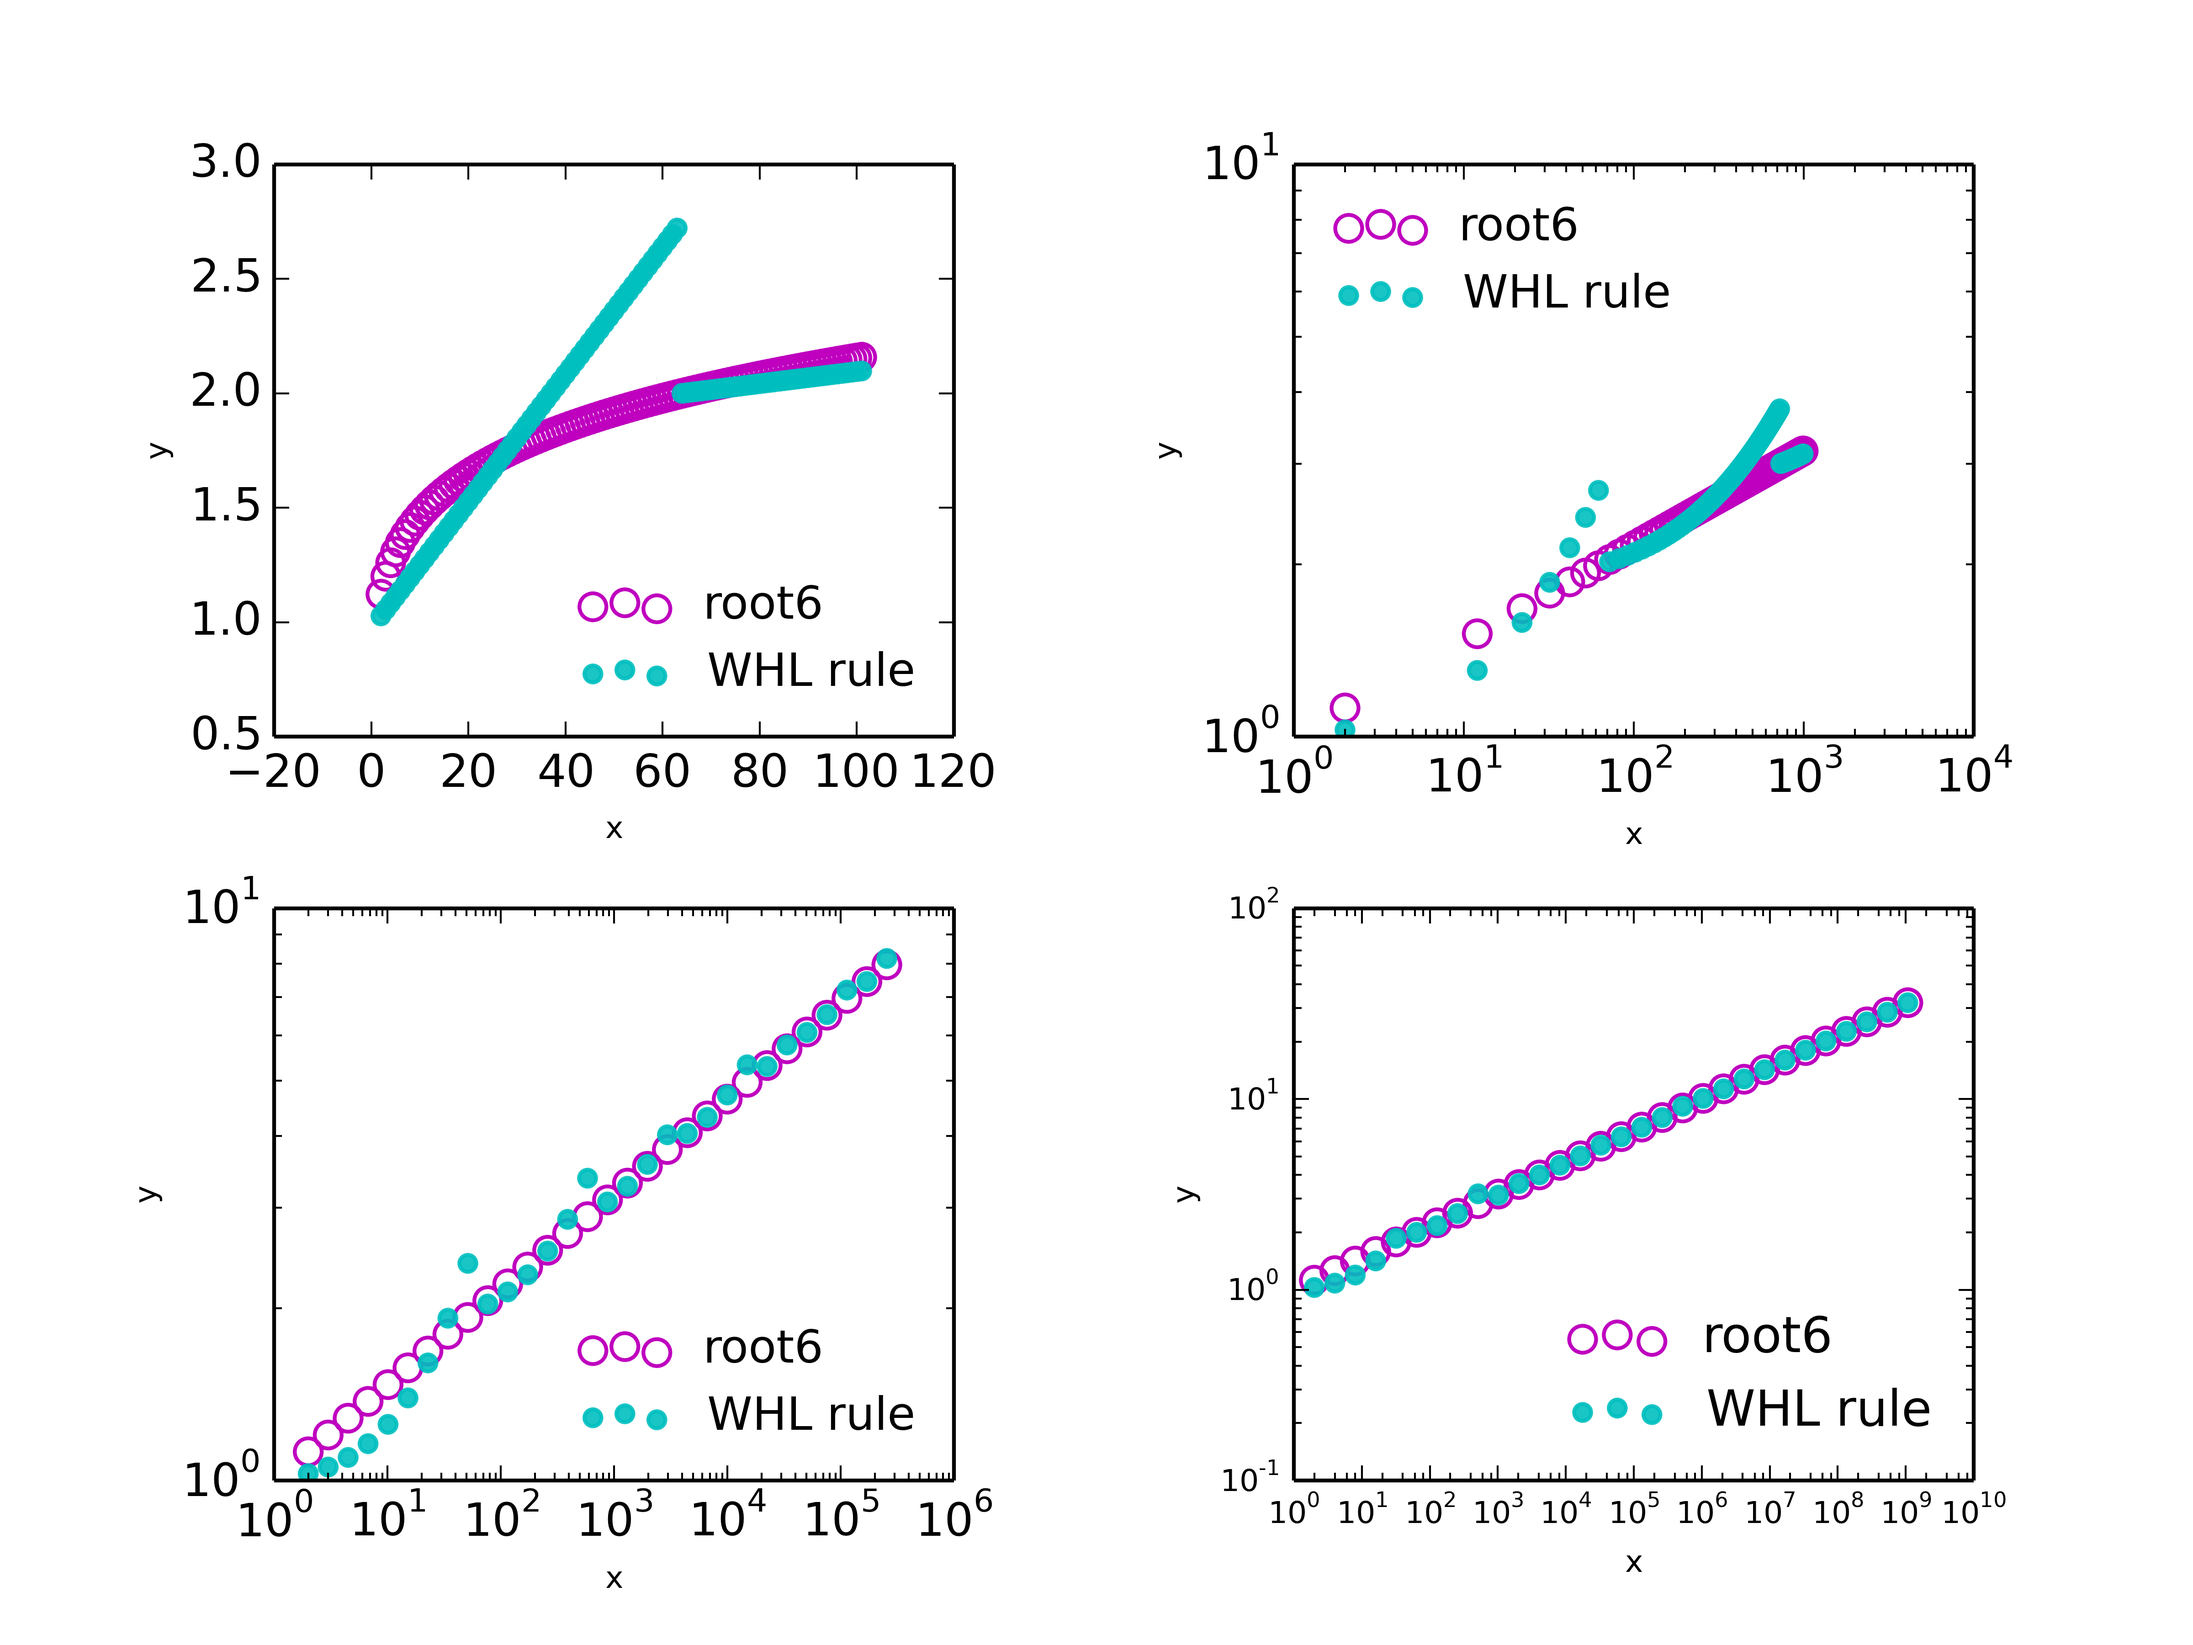
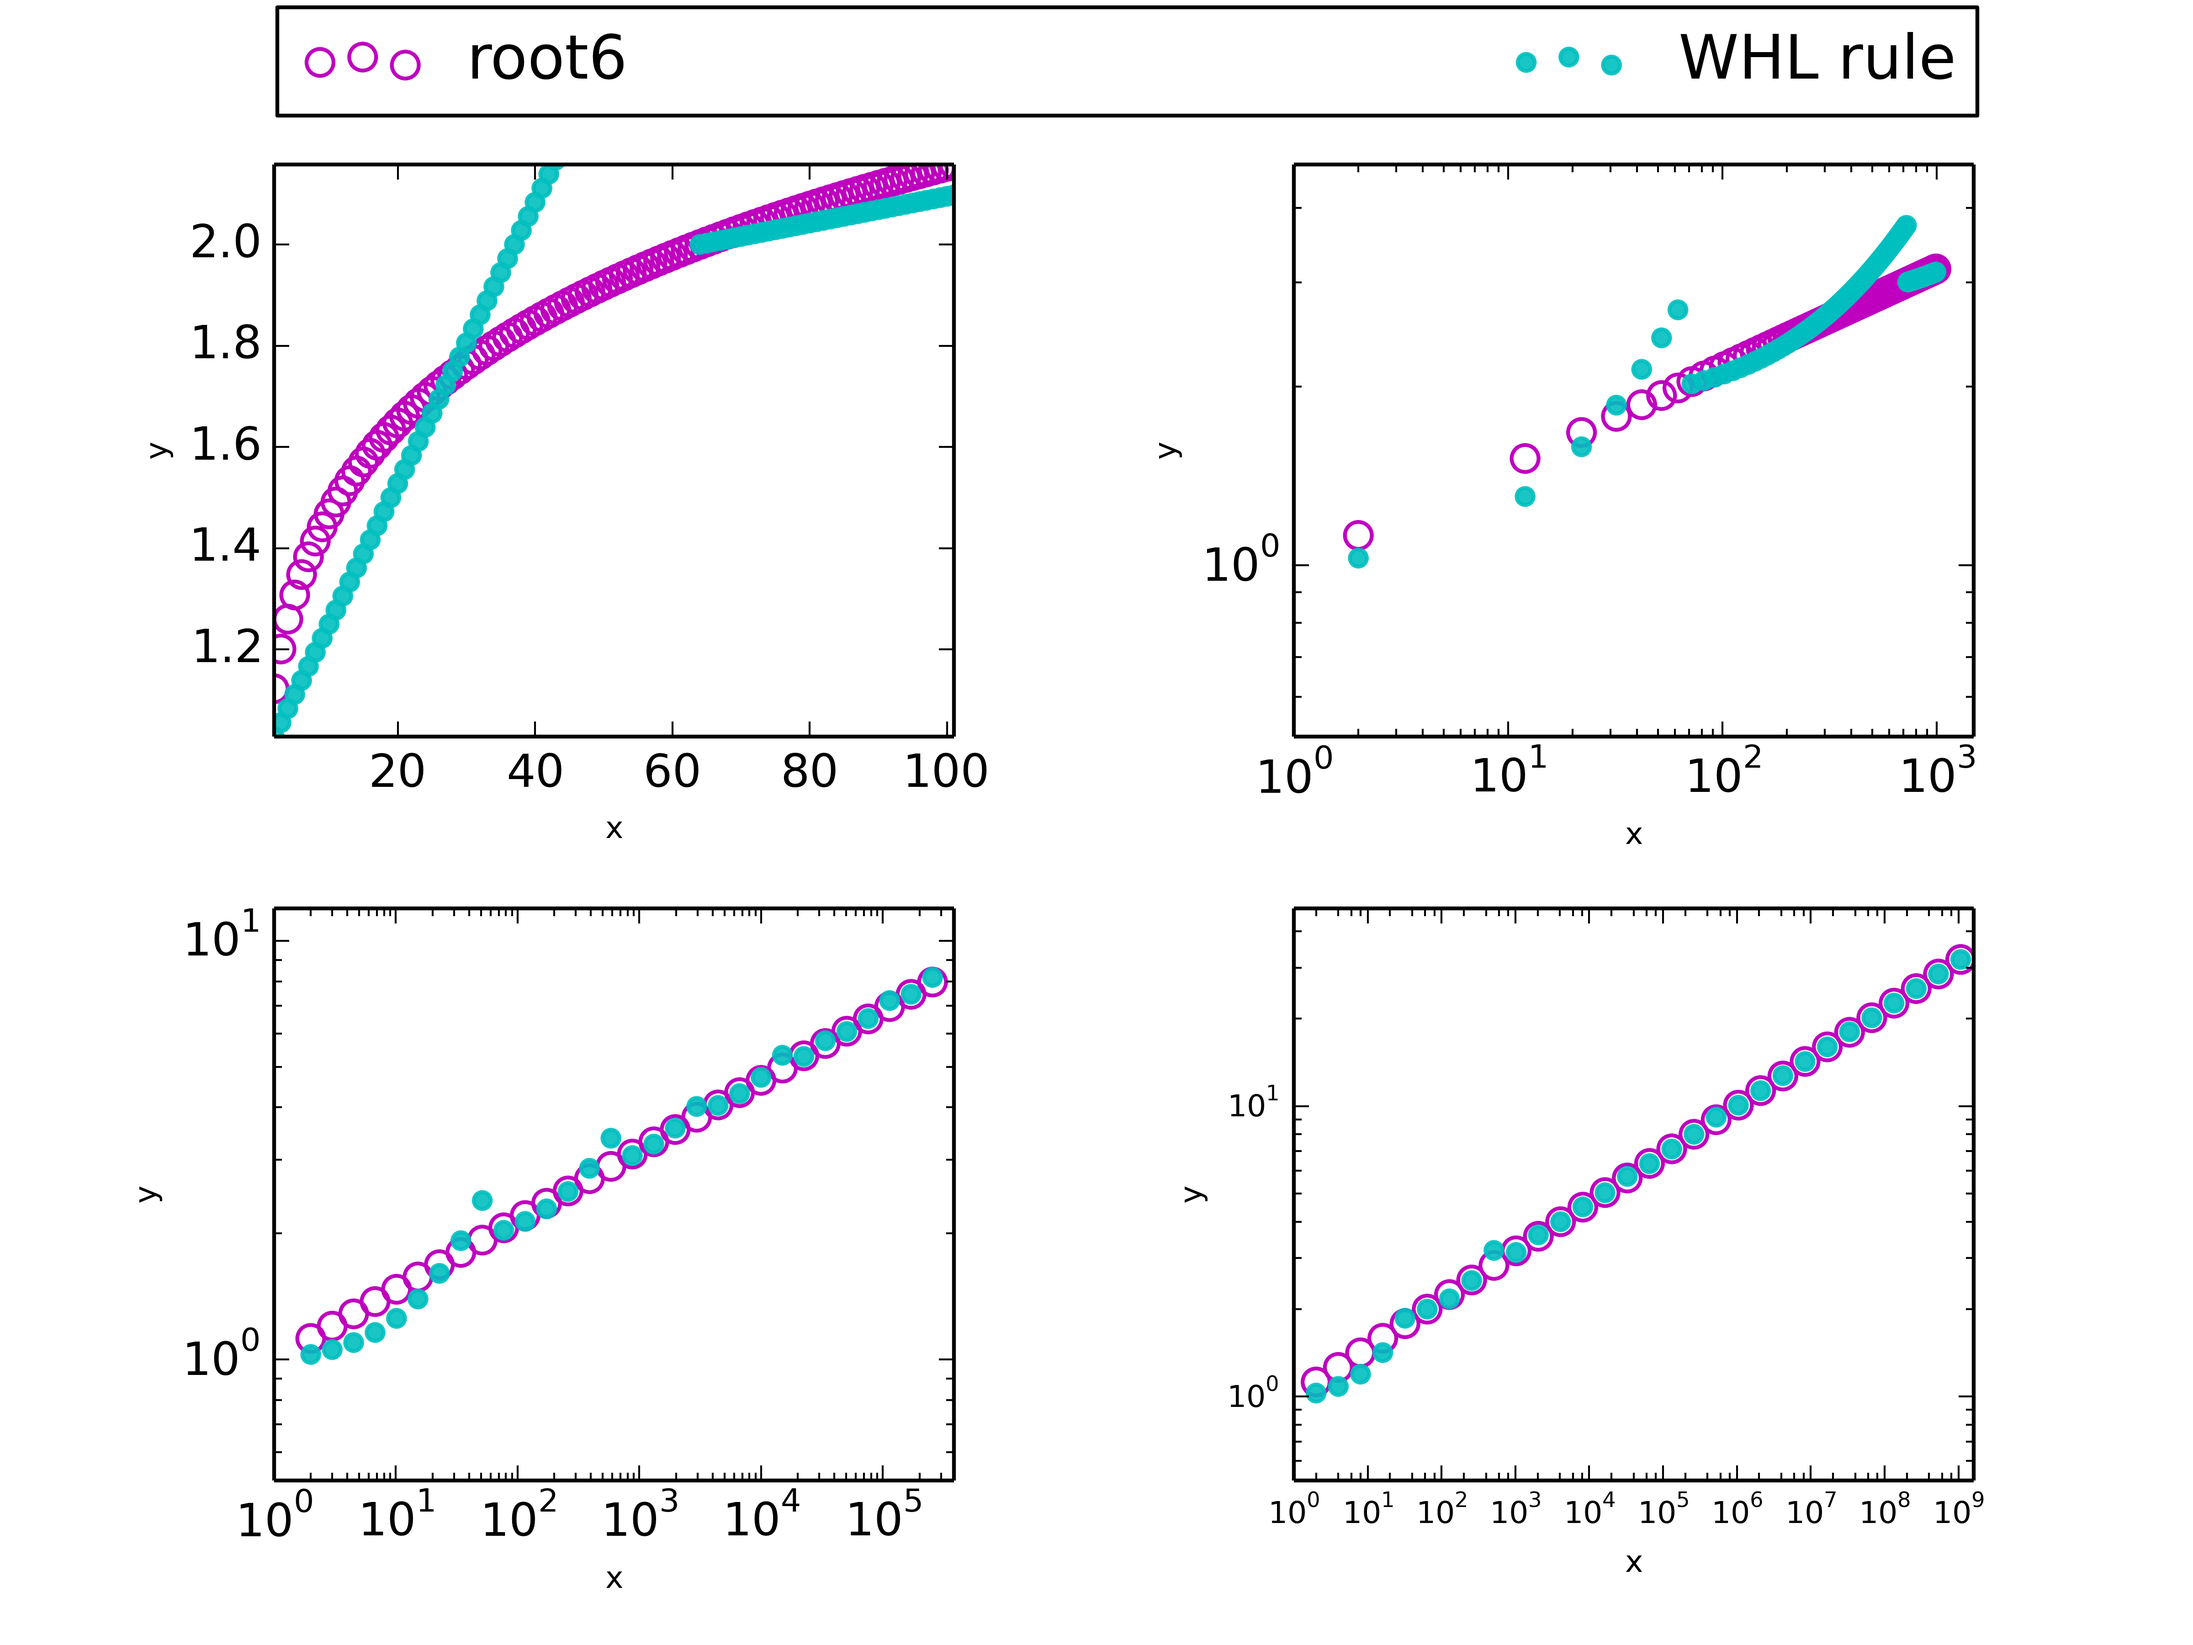
edited code to handle decimal roots; generated new figs -KL

diff --git a/Roots/code/Roots.py b/Roots/code/Roots.py
@@ -10,7 +10,7 @@ sys.path.append(mydir + "/GitHub/PeasantMath/Roots/code")
 import functions as fxn
 
 
-ks = [2,3,4,5,6,7,8,9,10]
+ks = [2, 3, 4, 5, 6, 7, 8, 9, 10, 2.5, 3.5, 4.5, 5.5, 6.5, 7.5, 8.5, 9.5, 10.5]
 
 for i, k in enumerate(ks):
 
@@ -31,14 +31,20 @@ for i, k in enumerate(ks):
         WLs.append(a)
         x += 1
 
-    plt.scatter(xs, rts, s=50, color='m', facecolors='none', label='root'+str(int(k)))
+    plt.scatter(xs, rts, s=50, color='m', facecolors='none', label='root'+str(k))
     plt.scatter(xs, WLs, color='c', alpha=0.9, label='WHL rule')
     #plt.yscale('log')
     #plt.xscale('log')
     plt.xlabel('x', fontsize=8)
     plt.ylabel('y', fontsize=8)
-    leg = plt.legend(loc=4,prop={'size':12})
-    leg.draw_frame(False)
+    plt.xlim(min(xs), max(xs))
+    plt.ylim(min(WLs), max(rts))
+
+    plt.legend(bbox_to_anchor=(-0.04, 1.08, 2.59, .2), loc=10, ncol=2,
+               mode="expand",prop={'size':16})
+
+    #leg = plt.legend(loc=4,prop={'size':12})
+    #leg.draw_frame(False)
     #plt.text(-50, 14, "How well does the WHL Rule approximate square roots?", fontsize=16)
 
 
@@ -58,15 +64,14 @@ for i, k in enumerate(ks):
         WLs.append(a)
         x += 10
 
-    plt.scatter(xs, rts, s=50, color='m', facecolors='none', label='root'+str(int(k)))
+    plt.scatter(xs, rts, s=50, color='m', facecolors='none', label='root'+str(k))
     plt.scatter(xs, WLs, color='c', alpha=0.9, label='WHL rule')
     plt.yscale('log')
     plt.xscale('log')
     plt.xlabel('x', fontsize=8)
     plt.ylabel('y', fontsize=8)
-    leg = plt.legend(loc=2,prop={'size':12})
-    leg.draw_frame(False)
-
+    plt.xlim(min(xs)*0.5, max(xs)*1.5)
+    plt.ylim(min(WLs)*0.5, max(rts)*1.5)
 
 
     ax = fig.add_subplot(2,2,3)
@@ -85,15 +90,14 @@ for i, k in enumerate(ks):
         x = x*1.5
 
 
-    plt.scatter(xs, rts, s=50, color='m', facecolors='none', label='root'+str(int(k)))
+    plt.scatter(xs, rts, s=50, color='m', facecolors='none', label='root'+str(k))
     plt.scatter(xs, WLs, color='c', alpha=0.9, label='WHL rule')
     plt.yscale('log')
     plt.xscale('log')
     plt.xlabel('x', fontsize=8)
     plt.ylabel('y', fontsize=8)
-    leg = plt.legend(loc=4,prop={'size':12})
-    leg.draw_frame(False)
-
+    plt.xlim(min(xs)*0.5, max(xs)*1.5)
+    plt.ylim(min(WLs)*0.5, max(rts)*1.5)
 
 
     ax = fig.add_subplot(2,2,4)
@@ -111,17 +115,18 @@ for i, k in enumerate(ks):
         WLs.append(a)
         x = x*2
 
-    plt.scatter(xs, rts, s=50, color='m', facecolors='none', label='root'+str(int(k)))
+    plt.scatter(xs, rts, s=50, color='m', facecolors='none', label='root'+str(k))
     plt.scatter(xs, WLs, color='c', alpha=0.9, label='WHL rule')
     plt.yscale('log')
     plt.xscale('log')
     plt.xlabel('x', fontsize=8)
     plt.ylabel('y', fontsize=8)
-    leg = plt.legend(loc=4,prop={'size':13})
-    leg.draw_frame(False)
+    plt.xlim(min(xs)*0.5, max(xs)*1.5)
+    plt.ylim(min(WLs)*0.5, max(rts)*1.5)
+
 
     plt.tick_params(axis='both', which='major', labelsize=8)
     plt.subplots_adjust(wspace=0.5, hspace=0.3)
-    plt.savefig(mydir+'/GitHub/PeasantMath/Roots/figs/WHL_root'+str(int(k))+'.png', dpi=600)#, bbox_inches = 'tight')#, pad_inches=0)
+    plt.savefig(mydir+'/GitHub/PeasantMath/Roots/figs/WHL_root'+str(k)+'.png', dpi=600)#, bbox_inches = 'tight')#, pad_inches=0)
     print 'finished root',k
     #plt.show()
